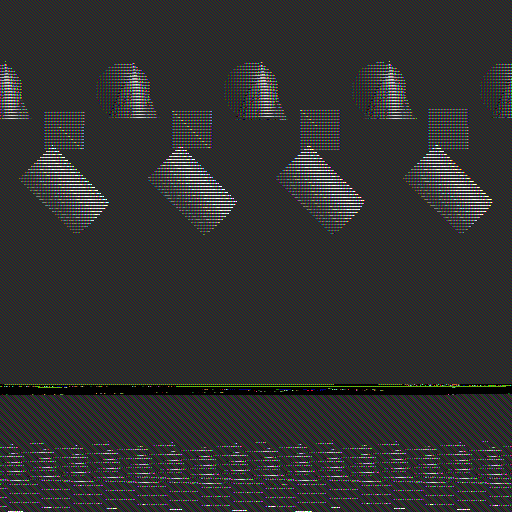
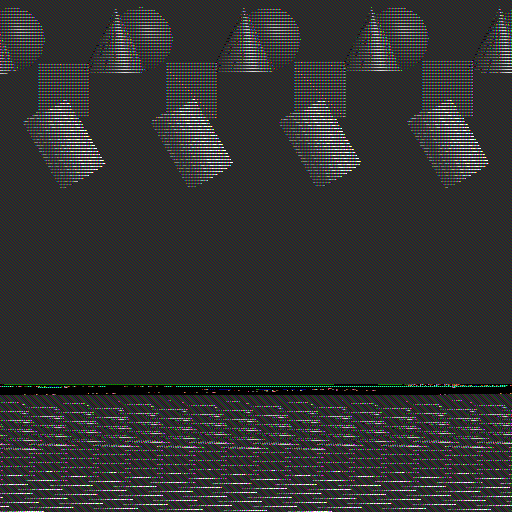
Reduce object sizes and improve scene composition to minimize large colored regions

diff --git a/tests/test_scene_rendering.cpp b/tests/test_scene_rendering.cpp
@@ -66,6 +66,7 @@
 #include <Inventor/nodes/SoCone.h>
 #include <Inventor/nodes/SoCylinder.h>
 #include <Inventor/nodes/SoPerspectiveCamera.h>
+#include <Inventor/nodes/SoOrthographicCamera.h>
 #include <Inventor/nodes/SoDirectionalLight.h>
 #include <Inventor/nodes/SoEnvironment.h>
 #include <Inventor/nodes/SoMaterial.h>
@@ -162,14 +163,14 @@ SoSeparator* createComplexScene() {
     SoSeparator* root = new SoSeparator;
     root->ref();
     
-    // Add camera - FIXED: Further increased distance and narrowed FOV 
-    SoPerspectiveCamera* camera = new SoPerspectiveCamera;
-    camera->position = SbVec3f(0, 0, 16);  // Further increased from 12 to 16
-    camera->orientation = SbRotation(SbVec3f(1, 0, 0), -0.1f);  // Further reduced tilt
-    camera->heightAngle = 0.6f;  // Explicitly set narrower FOV (default is ~0.78)
+    // Add camera - FIXED: Use orthographic camera for predictable viewport scaling 
+    SoOrthographicCamera* camera = new SoOrthographicCamera;
+    camera->position = SbVec3f(0, 0, 16);  // Same distance
+    camera->orientation = SbRotation(SbVec3f(1, 0, 0), -0.1f);  // Same tilt
+    camera->height = 6.0f;  // Control the view volume height - smaller values = tighter crop
     camera->nearDistance = 1.0f;
-    camera->farDistance = 30.0f;  // Increased for larger distance
-    camera->focalDistance = 16.0f;  // Updated to match position
+    camera->farDistance = 30.0f;  
+    camera->focalDistance = 16.0f;  
     root->addChild(camera);
     
     // Add lighting - FIXED: Bright lighting setup for vibrant colors
@@ -195,16 +196,16 @@ SoSeparator* createComplexScene() {
     redMaterial->shininess = 0.3f;  
     cubeGroup->addChild(redMaterial);
     SoCube* cube = new SoCube;
-    cube->width = 1.0f;   // Reduced from 1.5f
-    cube->height = 1.0f;  // Reduced from 1.5f
-    cube->depth = 1.0f;   // Reduced from 1.5f
+    cube->width = 0.8f;   // Further reduced from 1.0f
+    cube->height = 0.8f;  // Further reduced from 1.0f
+    cube->depth = 0.8f;   // Further reduced from 1.0f
     cubeGroup->addChild(cube);
     root->addChild(cubeGroup);
     
     // Create green sphere (upper right) - FIXED: Further reduced position
     SoSeparator* sphereGroup = new SoSeparator;
     SoTransform* sphereTransform = new SoTransform;
-    sphereTransform->translation = SbVec3f(1.5, 1.0, 0);  // Further reduced from (2,1.5,0)
+    sphereTransform->translation = SbVec3f(1.2, 0.8, 0);  // Further moved toward center from (1.5, 1.0, 0)
     sphereGroup->addChild(sphereTransform);
     SoMaterial* greenMaterial = new SoMaterial;
     greenMaterial->diffuseColor = SbColor(0.2f, 0.6f, 0.2f);
@@ -214,14 +215,14 @@ SoSeparator* createComplexScene() {
     greenMaterial->shininess = 0.3f;  
     sphereGroup->addChild(greenMaterial);
     SoSphere* sphere = new SoSphere;
-    sphere->radius = 0.7f;  // Reduced from 1.0f
+    sphere->radius = 0.5f;  // Further reduced from 0.7f
     sphereGroup->addChild(sphere);
     root->addChild(sphereGroup);
     
     // Create blue cone (upper left) - FIXED: Further reduced position
     SoSeparator* coneGroup = new SoSeparator;
     SoTransform* coneTransform = new SoTransform;
-    coneTransform->translation = SbVec3f(-1.5, 1.0, 0);  // Further reduced from (-2,1.5,0)
+    coneTransform->translation = SbVec3f(-1.2, 0.8, 0);  // Further moved toward center from (-1.5, 1.0, 0)
     coneGroup->addChild(coneTransform);
     SoMaterial* blueMaterial = new SoMaterial;
     blueMaterial->diffuseColor = SbColor(0.2f, 0.2f, 0.6f);
@@ -231,16 +232,16 @@ SoSeparator* createComplexScene() {
     blueMaterial->shininess = 0.3f;  
     coneGroup->addChild(blueMaterial);
     SoCone* cone = new SoCone;
-    cone->bottomRadius = 0.7f;  // Reduced from 1.0f
-    cone->height = 1.5f;        // Reduced from 2.0f
+    cone->bottomRadius = 0.5f;  // Further reduced from 0.7f
+    cone->height = 1.0f;        // Further reduced from 1.5f
     coneGroup->addChild(cone);
     root->addChild(coneGroup);
     
-    // Create yellow cylinder (lower center) - FIXED: Further reduced position
+    // Create yellow cylinder (lower center) - FIXED: Smaller, less intrusive positioning
     SoSeparator* cylinderGroup = new SoSeparator;
     SoTransform* cylinderTransform = new SoTransform;
-    cylinderTransform->translation = SbVec3f(0, -1.5f, 0.5);  // Further reduced from (0,-2,1)
-    cylinderTransform->rotation = SbRotation(SbVec3f(0, 0, 1), M_PI_4);
+    cylinderTransform->translation = SbVec3f(0, -0.8f, 0.3);  // Further moved up and forward from (-1.0f, 0.5)
+    cylinderTransform->rotation = SbRotation(SbVec3f(0, 0, 1), M_PI/6);  // 30 degrees rotation (reduced from M_PI_4)
     cylinderGroup->addChild(cylinderTransform);
     SoMaterial* yellowMaterial = new SoMaterial;
     yellowMaterial->diffuseColor = SbColor(0.6f, 0.6f, 0.2f);
@@ -250,8 +251,8 @@ SoSeparator* createComplexScene() {
     yellowMaterial->shininess = 0.3f;  
     cylinderGroup->addChild(yellowMaterial);
     SoCylinder* cylinder = new SoCylinder;
-    cylinder->radius = 0.6f;  // Reduced from 0.8f
-    cylinder->height = 2.0f;  // Reduced from 3.0f
+    cylinder->radius = 0.4f;  // Further reduced from 0.6f
+    cylinder->height = 1.2f;  // Further reduced from 2.0f
     cylinderGroup->addChild(cylinder);
     root->addChild(cylinderGroup);
     
